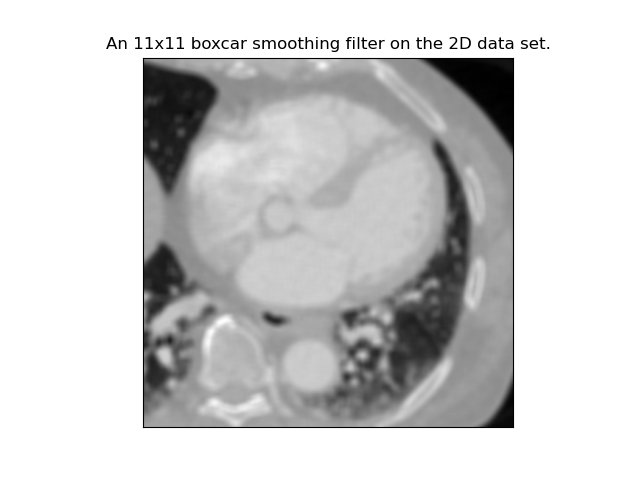
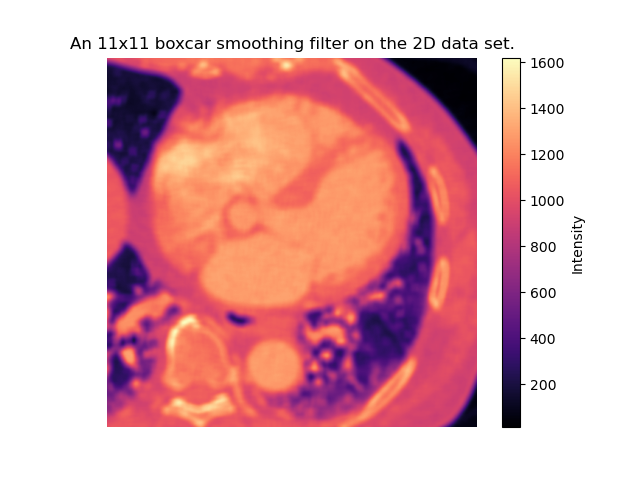
Updated visualization.

diff --git a/Assignments/Assignment 2/Angiographic.py b/Assignments/Assignment 2/Angiographic.py
@@ -1,5 +1,6 @@
 from __future__ import print_function
 import numpy as np
+import matplotlib as mpl
 import matplotlib.pyplot as plt
 import matplotlib.cm as cm
 from PIL import Image
@@ -18,7 +19,9 @@ sNonLinear = [[0 for x in range(cols)] for y in range(rows)]
 boxcarSmoothingFilter = [[0 for x in range(filterColmns)] for y in range(filterRows)]
 medianFilter = [[0 for x in range(filterColmns)] for y in range(filterRows)]
 boxcarSum, boxcarMul  = (0.0, 0.0)
-sliceData, sortedArray = ([], [])
+sliceData = [] 
+sortedArray = []
+middleIndex  = 0
 
 # Read and create 2D-array from data in a binary file.
 dataSet = np.fromfile("slice150.raw", dtype=np.uint16).reshape(rows, cols)
@@ -26,8 +29,19 @@ dataSet = np.fromfile("slice150.raw", dtype=np.uint16).reshape(rows, cols)
 # Create 1D array for future use.
 data = dataSet.flatten()
 
+# Display raw input start.
+img1 = plt.imshow(dataSet,aspect='equal',cmap=cm.get_cmap(name='magma'))
+ax1 = plt.gca()
+cb1 = plt.colorbar(img1,orientation='vertical', ax=ax1)
+cb1.set_label('Intensity')
+plt.title('150th slice of a CT angiographic scan data.')
+plt.axis('off')
+plt.savefig('Slice150.png')
+plt.show()
+# Display raw input end.
+
 # a) Profile line Start.
-plt.plot(dataSet[255])  #Line 256th
+plt.plot(dataSet[255],'tab:green')  #Line 256th
 plt.title("256th Profile line of data set.")
 plt.xlabel('x-axis')
 plt.ylabel('y-axis')
@@ -52,7 +66,7 @@ print('Variance = ', variance)
 # b) Calculate Variance value end.
 
 # c) Histogram start.
-plt.hist(data,bins=512,log=True,color='c')
+plt.hist(data, bins=512, log=True, color='c')
 plt.title('Histogram of 2D data set.')
 plt.xlabel('x-axis')
 plt.ylabel('log scale')
@@ -66,11 +80,13 @@ rmax = max(data)
 for r in range(rows):
     for c in range(cols):
         sLinear[r][c] = int(round(((dataSet[r][c] - rmin) / (rmax - rmin)) * smax))
-plt.imshow(sLinear,cmap='gray')
+# print(max(np.asarray(sLinear).flatten()))             
+img2 = plt.imshow(sLinear, aspect= 'equal', cmap= cm.get_cmap(name='magma'))
+ax2 = plt.gca()
+cb2 = plt.colorbar(img2,orientation='vertical', ax=ax2)
+cb2.set_label('Intensity')
 plt.title('Linear Transformation of 2D Data set in range between 0 to 255.')
-ax = plt.gca()
-ax.axes.get_xaxis().set_visible(False)
-ax.axes.get_yaxis().set_visible(False)
+plt.axis('off')
 plt.savefig('LinearTransformation.png')
 plt.show()
 # d) Linear transformation End.
@@ -80,16 +96,18 @@ constant = smax / log(rmax + 1, 2)
 for m in range(rows):
     for n in range(cols):
         sNonLinear[m][n] = int(round(constant * (log(dataSet[m][n] + 1, 2))))
-plt.imshow(sNonLinear,cmap='gray')
+img3 = plt.imshow(sNonLinear, aspect= 'equal', cmap= cm.get_cmap(name='magma'))
+ax3 = plt.gca()
+cb3 = plt.colorbar(img3, orientation= 'vertical', ax= ax3)
+cb3.set_label('Intensity')
 plt.title('Non-Linear Transformation of 2D Data set in range between 0 to 255.')
-ax = plt.gca()
-ax.axes.get_xaxis().set_visible(False)
-ax.axes.get_yaxis().set_visible(False)
+plt.axis('off')
 plt.savefig('Non-LinearTransformation.png')
 plt.show()
 # e) Different transformation end.
 
 # f) 11x11 boxcar smoothing filter start.
+# Takes 2 to 3 mins to calculate.
 for ro in range(filterRows):
     for co in range(filterColmns):
         rowEnd = (ro + kernelRows)
@@ -100,16 +118,17 @@ for ro in range(filterRows):
                 boxcarSum = boxcarSum + boxcarMul       
         boxcarSmoothingFilter[ro][co] = int(round(boxcarSum))
         boxcarSum, boxcarMul = (0.0, 0.0)
-plt.imshow(boxcarSmoothingFilter,cmap='gray')
+img4 = plt.imshow(boxcarSmoothingFilter, aspect= 'equal', cmap= cm.get_cmap(name='magma'))
+ax4 = plt.gca()
+cb4 = plt.colorbar(img4, orientation= 'vertical', ax= ax4)
+cb4.set_label('Intensity')
 plt.title('An 11x11 boxcar smoothing filter on the 2D data set.')
-ax = plt.gca()
-ax.axes.get_xaxis().set_visible(False)
-ax.axes.get_yaxis().set_visible(False)
+plt.axis('off')
 plt.savefig('BoxcarSmoothingFilter.png')
 plt.show()
 # f) 11x11 boxcar smoothing filter end.
 
-# g) 11x11 median filter start
+# g) 11x11 median filter start.
 def BubbleSort(li):
     length = len(li)    
     for i in range(length-1):
@@ -128,12 +147,15 @@ for r in range(filterRows):
         sortedArray = BubbleSort(sliceData)        
         middleIndex = len(sortedArray) // 2                
         medianFilter[r][c] = int(round(sortedArray[middleIndex]))
-        sliceData = [], sortedArray = [], middleItem = 0
-plt.imshow(medianFilter,cmap='gray')
+        sliceData = []
+        sortedArray = []
+        middleIndex = 0
+img5 = plt.imshow(medianFilter, aspect= 'equal', cmap= cm.get_cmap(name='magma'))
+ax5 = plt.gca()
+cb5 = plt.colorbar(img5, orientation= 'vertical', ax= ax5)
+cb5.set_label('Intensity')
 plt.title('An 11x11 Median filter on the 2D data set.')
-ax = plt.gca()
-ax.axes.get_xaxis().set_visible(False)
-ax.axes.get_yaxis().set_visible(False)
+plt.axis('off')
 plt.savefig('MedianFilter.png')
 plt.show()
 # g) 11x11 median filter end
